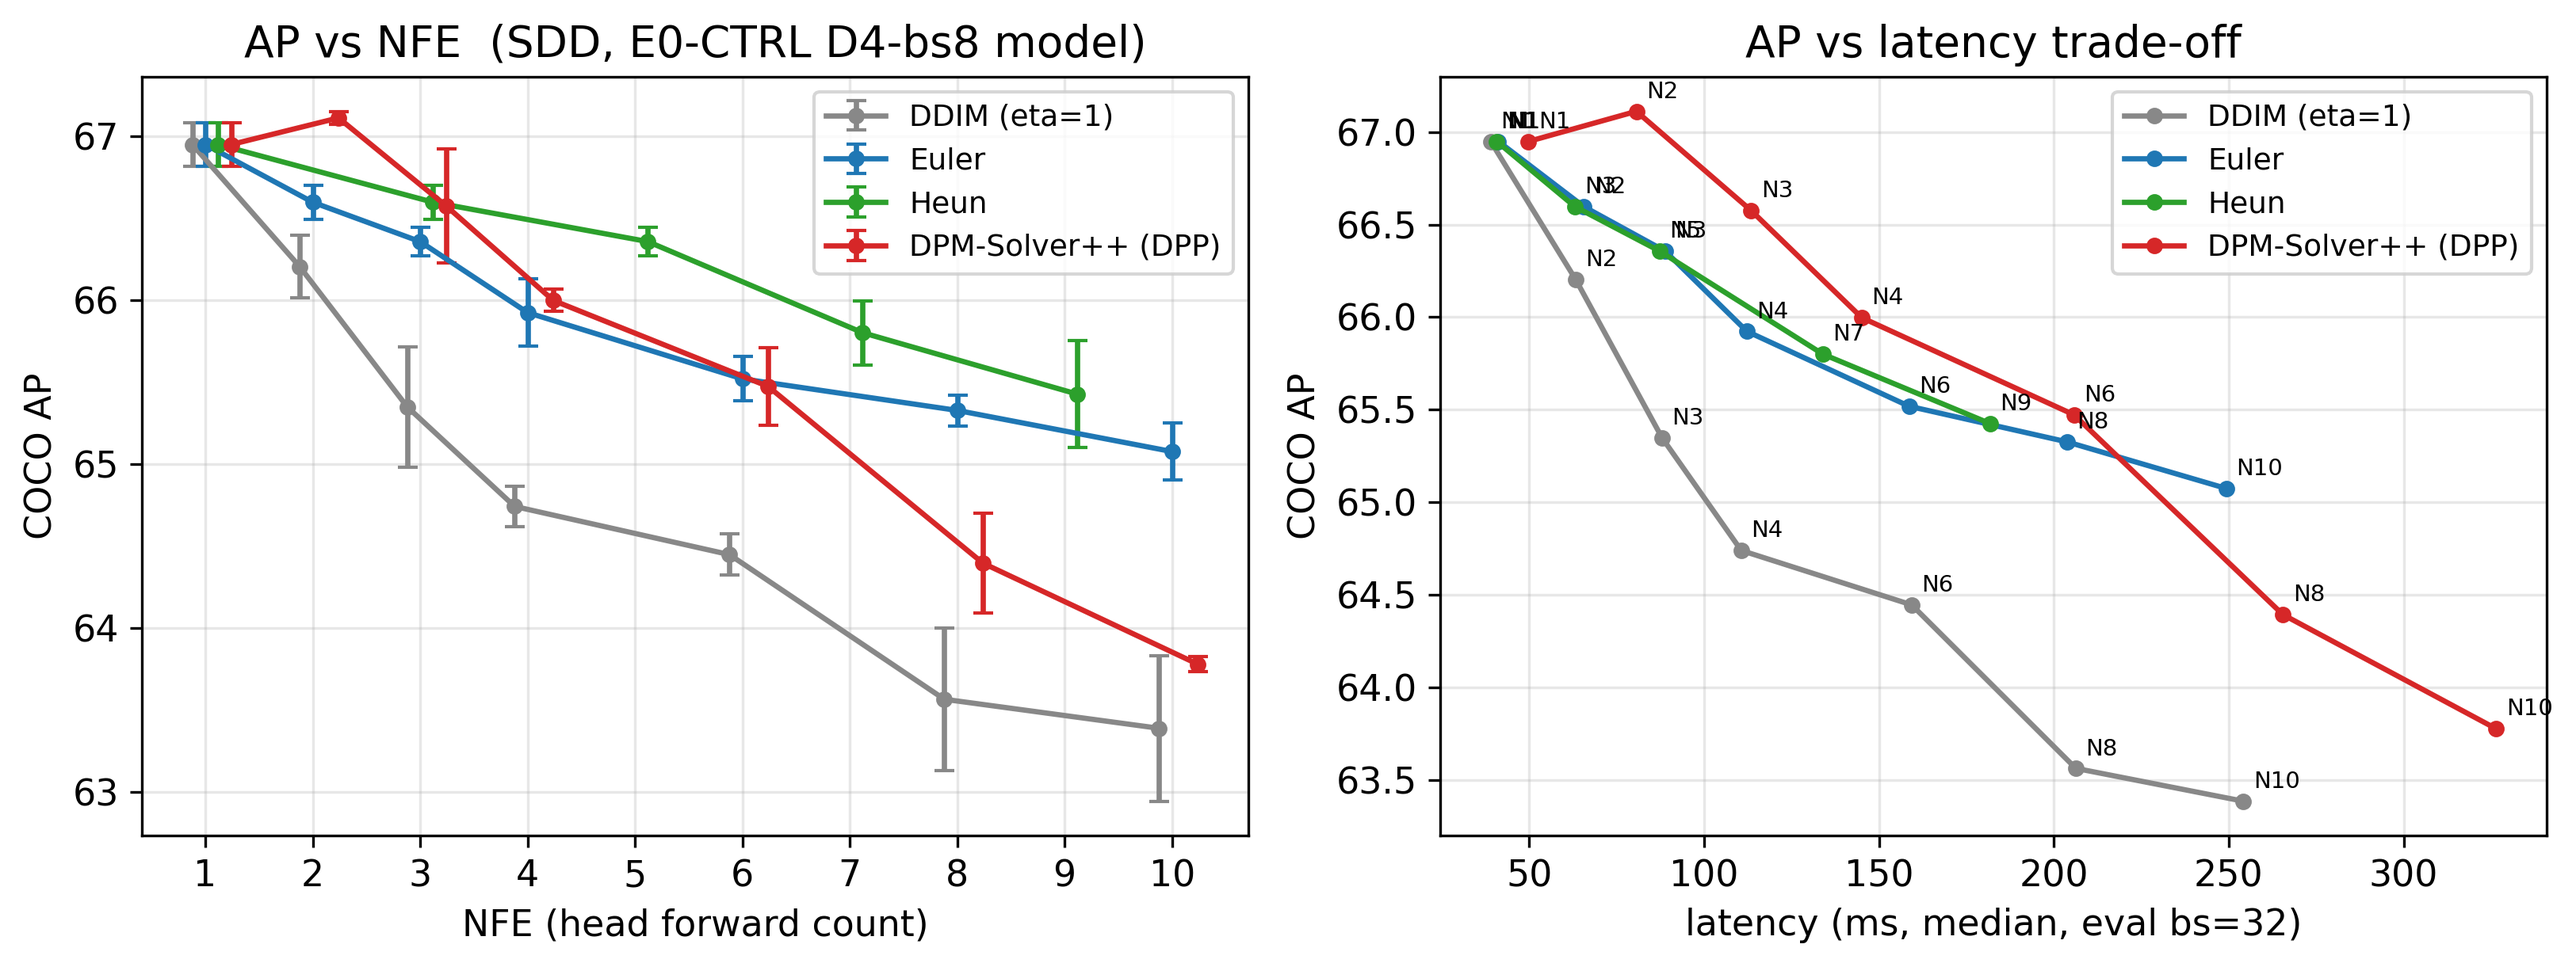
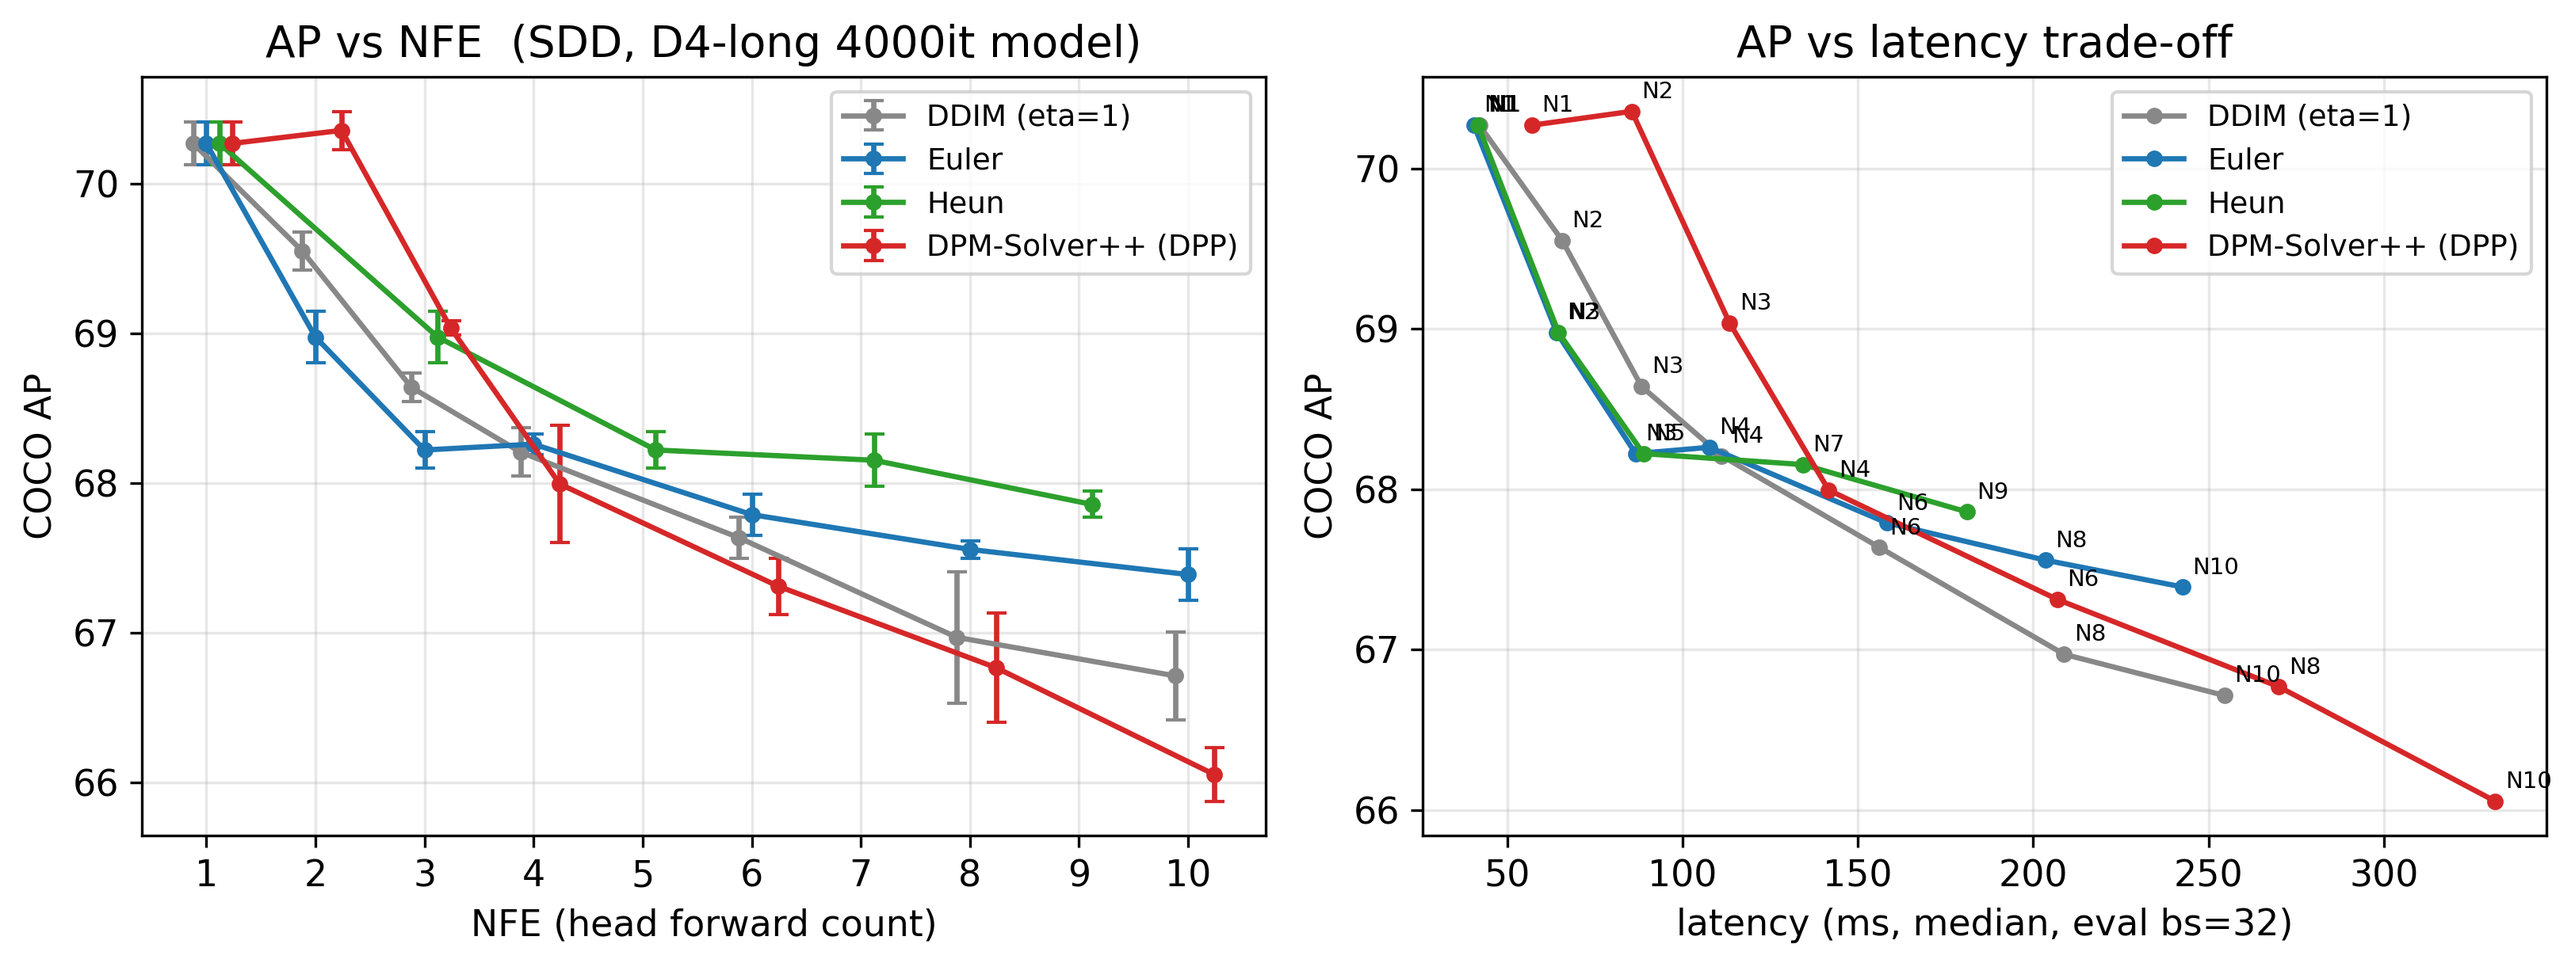
docs: final solver comparison on best-epoch model (4000it); fig1 regenerated with long-model data

diff --git a/scripts/make_figures.py b/scripts/make_figures.py
@@ -16,7 +16,15 @@ plt.rcParams.update({"font.size": 11, "figure.dpi": 300})
 
 # ============ 图 1：AP-NFE 曲线（E0-CTRL bs8 终版矩阵） ============
 ap = defaultdict(list)
-for r in csv.DictReader(open(f"{ROOT}/results/raw/m4_e0ctrl_full.csv")):
+for f in ["m4_e0ctrl_full.csv", "final_sdd_long_ddim_euler.csv", "final_sdd_long_heun_dpp.csv"]:
+    try:
+        rows = list(csv.DictReader(open(f"{ROOT}/results/raw/{f}")))
+    except FileNotFoundError:
+        continue
+    # 只取列名含 tag 的行：优先用 final_sdd_long（最佳 epoch 模型）
+for r in sum([list(csv.DictReader(open(f"{ROOT}/results/raw/{f}")))
+              for f in ["final_sdd_long_ddim_euler.csv", "final_sdd_long_heun_dpp.csv"]
+              if os.path.exists(f"{ROOT}/results/raw/{f}")], []):
     ap[(r["solver"], int(r["actual_nfe"]))].append(float(r["AP"]))
 
 offsets = {"ddim": -0.12, "euler": 0.0, "heun": 0.12, "dpm_v3": 0.24}
@@ -34,13 +42,15 @@ for solver in ["ddim", "euler", "heun", "dpm_v3"]:
                 color=colors[solver], label=labels[solver])
 ax.set_xlabel("NFE (head forward count)")
 ax.set_ylabel("COCO AP")
-ax.set_title("AP vs NFE  (SDD, E0-CTRL D4-bs8 model)")
+ax.set_title("AP vs NFE  (SDD, D4-long 4000it model)")
 ax.grid(alpha=0.3); ax.legend(fontsize=9)
 ax.set_xticks([1, 2, 3, 4, 5, 6, 7, 8, 9, 10])
 
 # ============ 图 2：latency-AP 权衡 ============
 lat = defaultdict(list)
-for r in csv.DictReader(open(f"{ROOT}/results/raw/m4_e0ctrl_full.csv")):
+for r in sum([list(csv.DictReader(open(f"{ROOT}/results/raw/{f}")))
+              for f in ["final_sdd_long_ddim_euler.csv", "final_sdd_long_heun_dpp.csv"]
+              if os.path.exists(f"{ROOT}/results/raw/{f}")], []):
     lat[(r["solver"], int(r["actual_nfe"]))].append(
         (float(r["AP"]), float(r["latency_ms_median"])))
 ax = axes[1]
